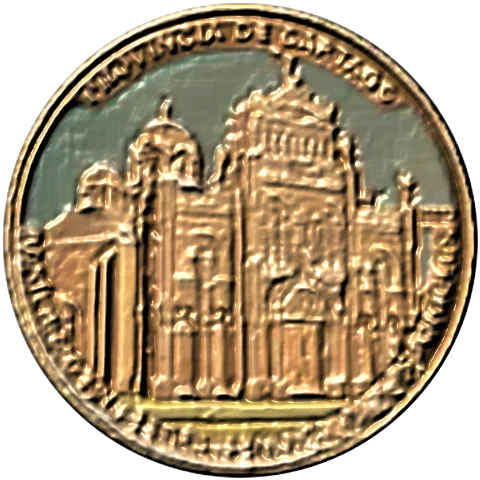
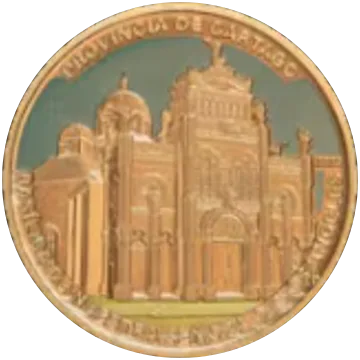
Nuevo cono: vuelven las caras originales (sin relieve horneado) en el dibujo y en el valor
- Las 19 caras del dibujo vuelven a ser la foto tal cual (como en 58a9992).
- La cara del valor de 500, 100, 50 y 25 vuelve a la configuración original, sin relieve ni filtros; se borra valor-500.webp.

diff --git a/index.html b/index.html
@@ -1062,8 +1062,7 @@
   };
   const PX_MM = 4.3, PASO_ESTRIA = 0.6; // escala de la hoja (28 mm = 120 px) y separacion aproximada de las estrias (mm)
   // cara del valor (la misma en todas las de una denominacion): 500 = foto propia; 50 y 25 = las mismas de las MS sueltas (privadas); 100 = Banco Central (privada)
-  // todas las caras (diseño y valor) llevan el relieve de acuñación horneado (luz, sombra de contacto y brillo sacados de la misma foto)
-  const VALOR_CARA = { 500: 'img/monedas3d/valor-500.webp', 50: 'privado:cara3d-valor-50-relieve.jpg', 25: 'privado:cara3d-valor-25-relieve.jpg', 100: 'privado:cara3d-valor-100-relieve.jpg' };
+  const VALOR_CARA = { 500: 'fotos-3d/O-ms88823228f-escudo.webp', 50: 'privado:cara3d-O-ms6183d92ac-escudo.jpg', 25: 'privado:cara3d-O-msea88dec85-escudo.jpg', 100: 'privado:cara3d-valor-100.jpg' };
   const DENOM_COLECCION = { 'Hitos de la Historia': 500, 'Patrimonio Cultural Inmaterial': 100, 'Fauna de los Ecosistemas': 50, 'Lugares Emblematicos de las Provincias de Costa Rica': 25 };
   // imagen de la hoja -> [moneda, archivo de su cara en img/monedas3d/]
   const MONEDA_IMG = {
